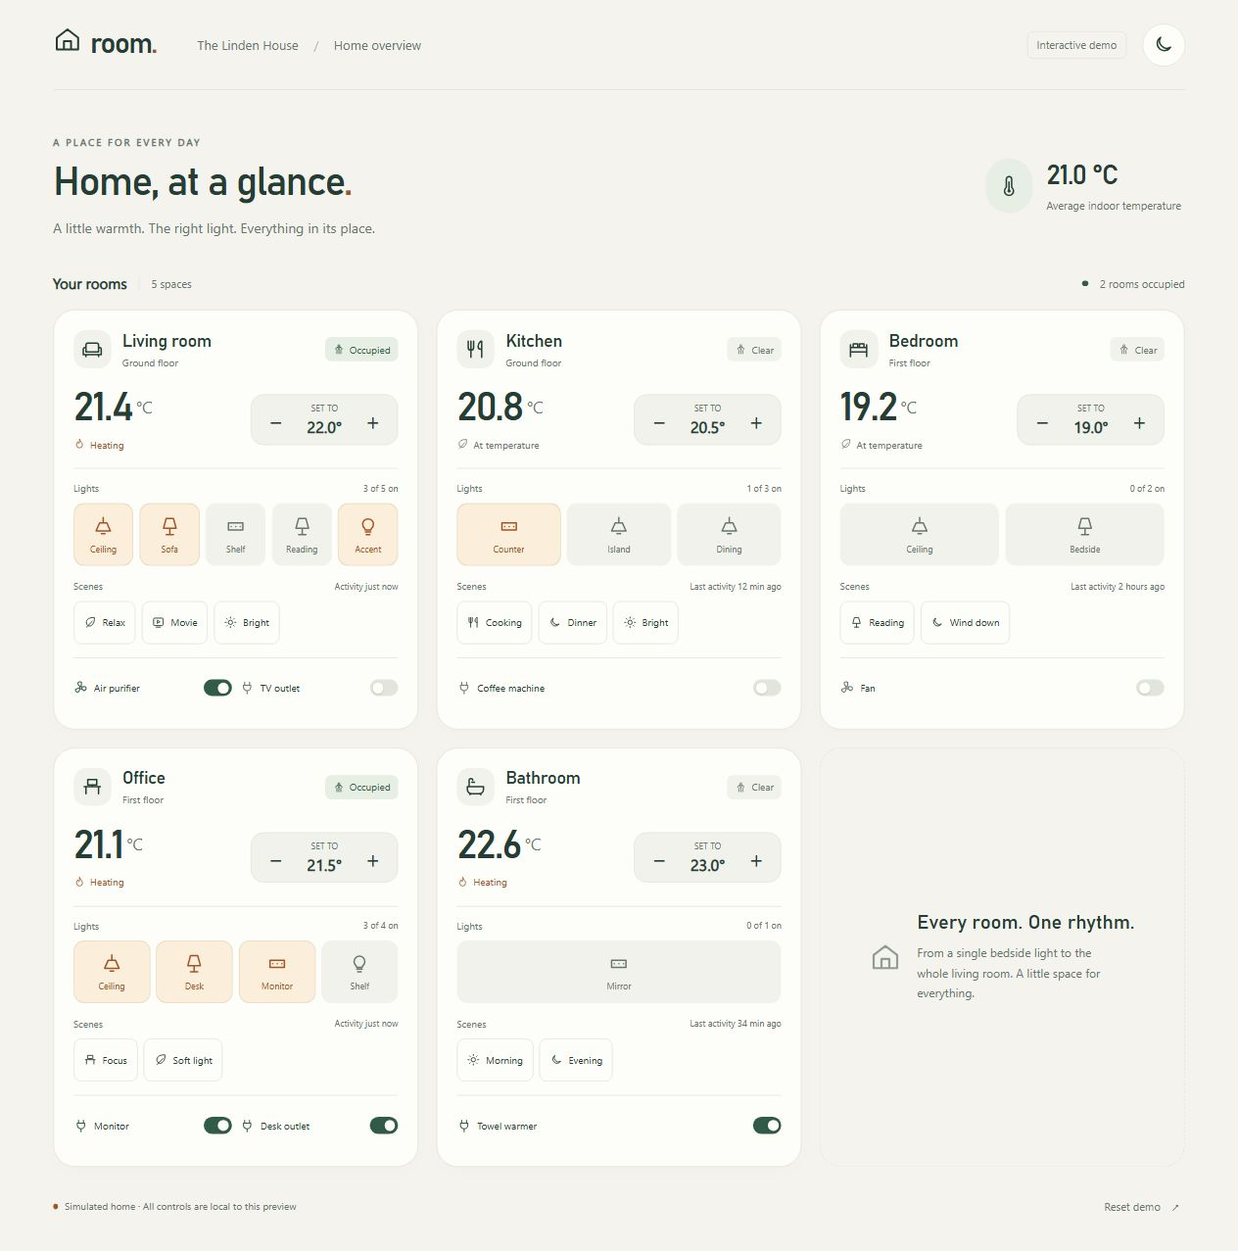
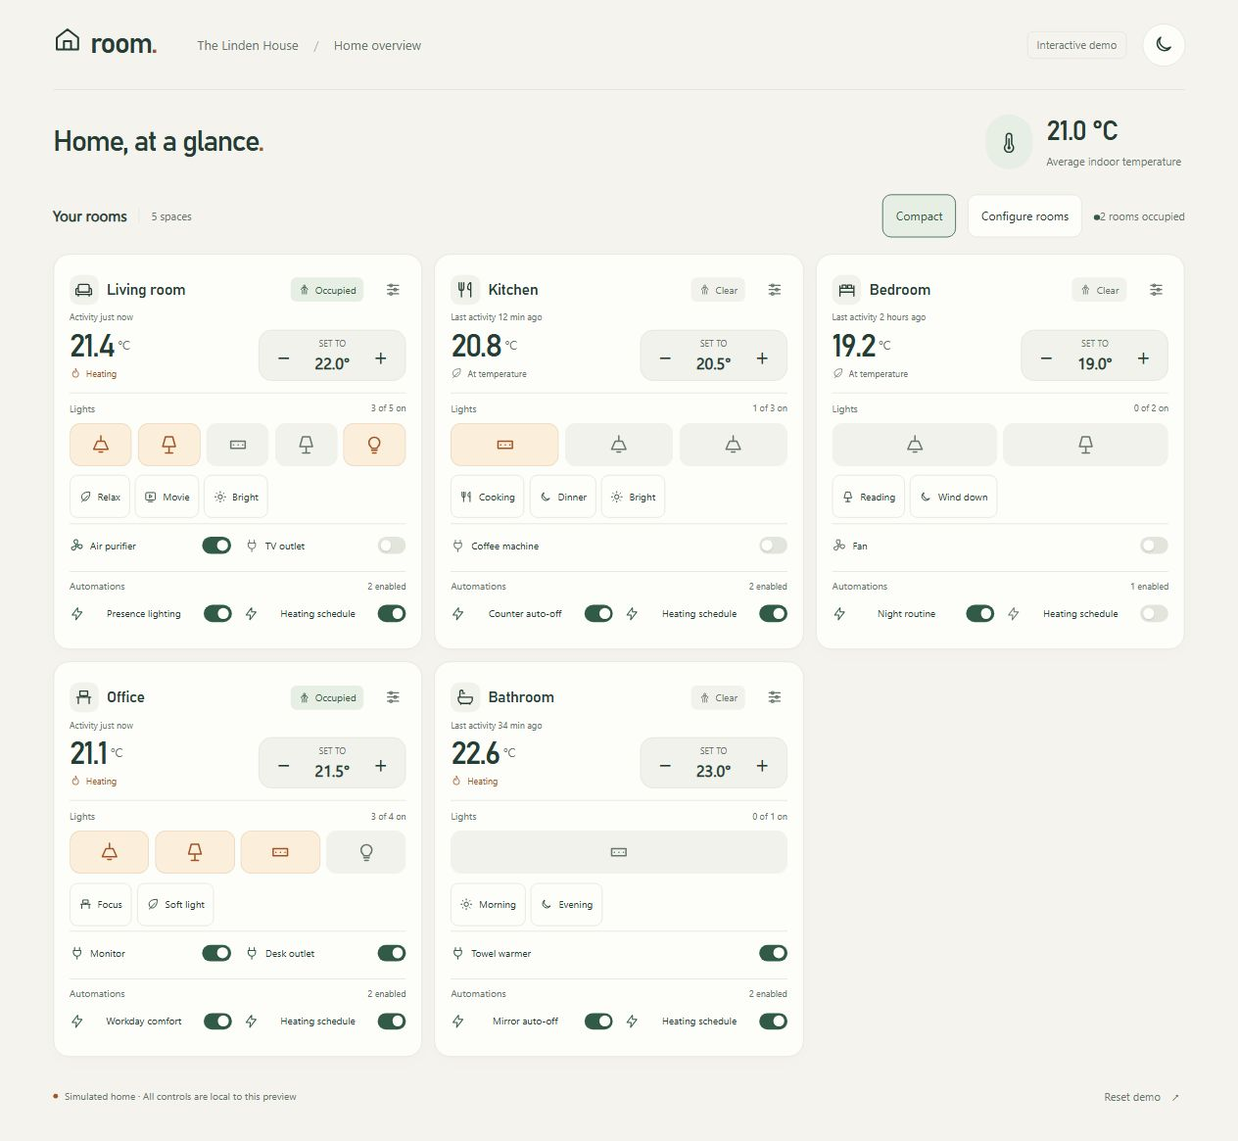
Add compact layout, automation toggles and room visibility settings

diff --git a/demo/prototype.js b/demo/prototype.js
@@ -1,4 +1,6 @@
 const paths = {
+  automation: '<path d="m13 2-9 12h7l-1 8 10-13h-7z"/>',
+  settings: '<path d="M4 6h16M4 12h16M4 18h16"/><circle cx="9" cy="6" r="2"/><circle cx="15" cy="12" r="2"/><circle cx="9" cy="18" r="2"/>',
   home: '<path d="m3 10 9-7 9 7v10H3zM9 20v-7h6v7"/>',
   sofa: '<path d="M5 12V7a2 2 0 0 1 2-2h10a2 2 0 0 1 2 2v5M5 10H4a2 2 0 0 0-2 2v6h20v-6a2 2 0 0 0-2-2h-1v5H5zM5 18v2m14-2v2"/>',
   bed: '<path d="M3 18V7m18 11V7M3 15h18M3 10h18v8M6 10V6h5v4m2 0V6h5v4M3 18v2m18-2v2"/>',
@@ -29,7 +31,37 @@ const initial = [
   { name: 'Office', icon: 'desk', floor: 'First floor', current: 21.1, target: 21.5, presence: true, activity: 'Activity just now', lights: [light('Ceiling', true, 'pendant'), light('Desk', true, 'lamp'), light('Monitor', true, 'strip'), light('Shelf', false)], scenes: [['Focus', 'desk'], ['Soft light', 'leaf']], devices: [device('Monitor', true), device('Desk outlet', true)] },
   { name: 'Bathroom', icon: 'bath', floor: 'First floor', current: 22.6, target: 23, presence: false, activity: 'Last activity 34 min ago', lights: [light('Mirror', false, 'strip')], scenes: [['Morning', 'sun'], ['Evening', 'moon']], devices: [device('Towel warmer', true)] },
 ];
+initial.forEach((room, index) => {
+  room.automations = [
+    device(['Presence lighting', 'Counter auto-off', 'Night routine', 'Workday comfort', 'Mirror auto-off'][index], true, 'automation'),
+    device('Heating schedule', index !== 2, 'automation'),
+  ];
+});
 let rooms = structuredClone(initial);
+const sectionNames = { thermostat: 'Thermostat', presence: 'Presence & last activity', lights: 'Lights', scenes: 'Scenes', devices: 'Devices & switches', automations: 'Automations' };
+const storageKey = 'ha-room-prototype-settings-v1';
+const defaults = () => ({ compact: false, rooms: initial.map(() => ({ sections: Object.fromEntries(Object.keys(sectionNames).map(key => [key, true])), hidden: { lights: [], scenes: [], devices: [], automations: [] } })) });
+let preferences = defaults();
+try {
+  const saved = JSON.parse(localStorage.getItem(storageKey));
+  if (saved) {
+    preferences.compact = saved.compact === true;
+    preferences.rooms.forEach((room, index) => {
+      for (const section of Object.keys(sectionNames)) {
+        if (typeof saved.rooms?.[index]?.sections?.[section] === 'boolean') room.sections[section] = saved.rooms[index].sections[section];
+      }
+      for (const section of Object.keys(room.hidden)) {
+        const list = saved.rooms?.[index]?.hidden?.[section];
+        if (Array.isArray(list)) room.hidden[section] = list.filter(value => Number.isInteger(value) && value >= 0 && value < initial[index][section].length);
+      }
+    });
+  }
+} catch { /* Storage may be unavailable or contain an older, incompatible draft. */ }
+function savePreferences() {
+  try { localStorage.setItem(storageKey, JSON.stringify(preferences)); document.querySelector('#save-status').textContent = 'Saved in this browser'; }
+  catch { document.querySelector('#save-status').textContent = 'Applied for this session · Browser storage unavailable'; }
+}
+const visibleItems = (room, index, section) => room[section].map((item, itemIndex) => ({ item, itemIndex })).filter(({ itemIndex }) => !preferences.rooms[index].hidden[section].includes(itemIndex));
 let feedbackTimeout;
 const root = document.querySelector('#rooms');
 const format = number => number.toFixed(1);
@@ -41,14 +73,25 @@ function notify(message) {
   feedbackTimeout = setTimeout(() => feedback.classList.remove('visible'), 2600);
 }
 function render() {
+  document.body.classList.toggle('compact', preferences.compact);
+  document.querySelector('#compact').setAttribute('aria-pressed', String(preferences.compact));
   root.innerHTML = rooms.map((room, index) => {
     const heating = room.target > room.current;
+    const enabled = preferences.rooms[index].sections;
+    const lights = visibleItems(room, index, 'lights');
+    const scenes = visibleItems(room, index, 'scenes');
+    const devices = visibleItems(room, index, 'devices');
+    const automations = visibleItems(room, index, 'automations');
+    const hasVisibleContent = enabled.presence || enabled.thermostat || (enabled.lights && lights.length) || (enabled.scenes && scenes.length) || (enabled.devices && devices.length) || (enabled.automations && automations.length);
     return `<article class="room-card" data-room="${index}" aria-label="${room.name}">
-      <header class="card-heading"><span class="room-symbol">${icon(room.icon)}</span><div class="room-title"><h3>${room.name}</h3><p>${room.floor}</p></div><span class="presence ${room.presence ? 'occupied' : ''}">${icon('person')}${room.presence ? 'Occupied' : 'Clear'}</span></header>
-      <div class="thermostat"><div><div class="temperature" aria-label="Current temperature ${format(room.current)} degrees Celsius">${format(room.current)}<small>°C</small></div><div class="heat-status ${heating ? 'heating' : ''}">${icon(heating ? 'flame' : 'leaf')}${heating ? 'Heating' : 'At temperature'}</div></div><div class="setpoint"><button data-action="temperature" data-delta="-0.5" aria-label="Decrease ${room.name} target by 0.5 degrees Celsius">−</button><div class="setpoint-center"><span>SET TO</span><strong aria-live="polite">${format(room.target)}°</strong></div><button data-action="temperature" data-delta="0.5" aria-label="Increase ${room.name} target by 0.5 degrees Celsius">+</button></div></div>
-      <div class="control-section"><div class="control-label"><span>Lights</span><span>${room.lights.filter(item => item.on).length} of ${room.lights.length} on</span></div><div class="lights" style="--lights:${room.lights.length}">${room.lights.map((item, lightIndex) => `<button class="light ${item.on ? 'on' : ''}" data-action="light" data-index="${lightIndex}" aria-label="${item.name} light in ${room.name}" aria-pressed="${item.on}">${icon(item.type)}<span>${item.name}</span></button>`).join('')}</div></div>
-      <div class="control-label"><span>Scenes</span><span>${room.activity}</span></div><div class="scenes">${room.scenes.map(([name, symbol], sceneIndex) => `<button class="scene" data-action="scene" data-index="${sceneIndex}" aria-pressed="${room.scene === sceneIndex}">${icon(symbol)}${name}</button>`).join('')}</div>
-      <div class="devices">${room.devices.map((item, deviceIndex) => `<button class="device" data-action="device" data-index="${deviceIndex}" aria-pressed="${item.on}" aria-label="${item.name} in ${room.name}">${icon(item.type)}<span>${item.name}</span><span class="switch" aria-hidden="true"></span></button>`).join('')}</div>
+      <header class="card-heading"><span class="room-symbol">${icon(room.icon)}</span><div class="room-title"><h3>${room.name}</h3><p>${room.floor}</p></div>${enabled.presence ? `<span class="presence ${room.presence ? 'occupied' : ''}">${icon('person')}${room.presence ? 'Occupied' : 'Clear'}</span>` : ''}<button class="card-settings" data-action="settings" aria-label="Configure ${room.name}">${icon('settings')}</button></header>
+      ${enabled.presence ? `<div class="last-activity">${room.activity}</div>` : ''}
+      ${enabled.thermostat ? `<div class="thermostat"><div><div class="temperature" aria-label="Current temperature ${format(room.current)} degrees Celsius">${format(room.current)}<small>°C</small></div><div class="heat-status ${heating ? 'heating' : ''}">${icon(heating ? 'flame' : 'leaf')}${heating ? 'Heating' : 'At temperature'}</div></div><div class="setpoint"><button data-action="temperature" data-delta="-0.5" aria-label="Decrease ${room.name} target by 0.5 degrees Celsius">−</button><div class="setpoint-center"><span>SET TO</span><strong aria-live="polite">${format(room.target)}°</strong></div><button data-action="temperature" data-delta="0.5" aria-label="Increase ${room.name} target by 0.5 degrees Celsius">+</button></div></div>` : ''}
+      ${enabled.lights && lights.length ? `<section class="control-section" aria-label="Lights"><div class="control-label"><span>Lights</span><span>${lights.filter(({ item }) => item.on).length} of ${lights.length} on</span></div><div class="lights" style="--lights:${lights.length}">${lights.map(({ item, itemIndex }) => `<button class="light ${item.on ? 'on' : ''}" data-action="light" data-index="${itemIndex}" aria-label="${item.name} light in ${room.name}" aria-pressed="${item.on}">${icon(item.type)}<span>${item.name}</span></button>`).join('')}</div></section>` : ''}
+      ${enabled.scenes && scenes.length ? `<section class="scene-section" aria-label="Scenes"><div class="control-label"><span>Scenes</span></div><div class="scenes">${scenes.map(({ item: [name, symbol], itemIndex }) => `<button class="scene" data-action="scene" data-index="${itemIndex}" aria-pressed="${room.scene === itemIndex}">${icon(symbol)}${name}</button>`).join('')}</div></section>` : ''}
+      ${enabled.devices && devices.length ? `<section class="devices-section" aria-label="Devices and switches"><div class="control-label"><span>Devices</span></div><div class="devices">${devices.map(({ item, itemIndex }) => `<button class="device" data-action="device" data-index="${itemIndex}" aria-pressed="${item.on}" aria-label="${item.name} in ${room.name}">${icon(item.type)}<span>${item.name}</span><span class="switch" aria-hidden="true"></span></button>`).join('')}</div></section>` : ''}
+      ${enabled.automations && automations.length ? `<section class="automations-section" aria-label="Automations"><div class="control-label"><span>Automations</span><span>${automations.filter(({ item }) => item.on).length} enabled</span></div><div class="automations">${automations.map(({ item, itemIndex }) => `<button class="device" data-action="automation" data-index="${itemIndex}" aria-pressed="${item.on}" aria-label="${item.name} automation in ${room.name}">${icon('automation')}<span>${item.name}</span><span class="switch" aria-hidden="true"></span></button>`).join('')}</div></section>` : ''}
+      ${!hasVisibleContent ? '<p class="empty-card">No controls selected. Choose what appears in room settings.</p>' : ''}
     </article>`;
   }).join('') + `<aside class="room-note">${icon('home')}<div><strong>Every room. One rhythm.</strong><p>From a single bedside light to the whole living room. A little space for everything.</p></div></aside>`;
   document.querySelector('#average').textContent = `${format(rooms.reduce((sum, room) => sum + room.current, 0) / rooms.length)} °C`;
@@ -61,6 +104,7 @@ root.addEventListener('click', event => {
   const room = rooms[roomIndex];
   const index = Number(button.dataset.index);
   const action = button.dataset.action;
+  if (action === 'settings') { openSettings(roomIndex); return; }
   if (action === 'temperature') {
     room.target = Math.min(30, Math.max(5, room.target + Number(button.dataset.delta)));
     notify(`${room.name} · Set to ${format(room.target)} °C`);
@@ -69,6 +113,9 @@ root.addEventListener('click', event => {
     room.scene = undefined;
   } else if (action === 'device') {
     room.devices[index].on = !room.devices[index].on;
+  } else if (action === 'automation') {
+    room.automations[index].on = !room.automations[index].on;
+    notify(`${room.name} · ${room.automations[index].name} ${room.automations[index].on ? 'enabled' : 'disabled'}`);
   } else if (action === 'scene') {
     room.scene = index;
     const sceneName = room.scenes[index][0];
@@ -92,5 +139,43 @@ themeButton.addEventListener('click', () => {
   themeButton.innerHTML = icon(dark ? 'sun' : 'moon');
   themeButton.setAttribute('aria-label', `Switch to ${dark ? 'light' : 'dark'} theme`);
 });
-document.querySelector('#reset').addEventListener('click', () => { rooms = structuredClone(initial); render(); notify('Demo reset'); });
+const settings = document.querySelector('#settings');
+const roomSelect = document.querySelector('#settings-room');
+roomSelect.innerHTML = rooms.map((room, index) => `<option value="${index}">${room.name}</option>`).join('');
+function renderSettings() {
+  const index = Number(roomSelect.value);
+  const config = preferences.rooms[index];
+  document.querySelector('#settings-content').innerHTML = Object.entries(sectionNames).map(([key, label]) => {
+    const items = rooms[index][key];
+    return `<section class="setting-section"><label class="setting-toggle"><span>${label}</span><input type="checkbox" data-section="${key}" ${config.sections[key] ? 'checked' : ''} aria-label="Show ${label}"><span class="setting-switch" aria-hidden="true"></span></label>${Array.isArray(items) ? `<fieldset ${config.sections[key] ? '' : 'disabled'}><legend class="sr-only">Visible ${label}</legend>${items.map((item, itemIndex) => `<label class="item-option"><input type="checkbox" data-section="${key}" data-item="${itemIndex}" ${config.hidden[key].includes(itemIndex) ? '' : 'checked'}><span>${Array.isArray(item) ? item[0] : item.name}</span></label>`).join('')}</fieldset>` : ''}</section>`;
+  }).join('');
+}
+function openSettings(index = 0) {
+  roomSelect.value = String(index);
+  renderSettings();
+  settings.showModal();
+}
+roomSelect.addEventListener('change', renderSettings);
+document.querySelector('#settings-content').addEventListener('change', event => {
+  const input = event.target.closest('input[data-section]');
+  if (!input) return;
+  const config = preferences.rooms[Number(roomSelect.value)];
+  const section = input.dataset.section;
+  if (input.dataset.item === undefined) {
+    config.sections[section] = input.checked;
+    const fieldset = input.closest('section').querySelector('fieldset');
+    if (fieldset) fieldset.disabled = !input.checked;
+  } else {
+    const index = Number(input.dataset.item);
+    config.hidden[section] = config.hidden[section].filter(item => item !== index);
+    if (!input.checked) config.hidden[section].push(index);
+  }
+  savePreferences();
+  render();
+});
+document.querySelector('#configure').addEventListener('click', () => openSettings());
+document.querySelector('#close-settings').addEventListener('click', () => settings.close());
+document.querySelector('#done-settings').addEventListener('click', () => settings.close());
+document.querySelector('#compact').addEventListener('click', () => { preferences.compact = !preferences.compact; savePreferences(); render(); });
+document.querySelector('#reset').addEventListener('click', () => { rooms = structuredClone(initial); preferences = defaults(); savePreferences(); render(); notify('Demo and room settings reset'); });
 render();

diff --git a/demo/prototype.css b/demo/prototype.css
@@ -1,4 +1,8 @@
 @font-face{font-family:Room Sans;src:local('Aptos'),local('Segoe UI');font-display:swap}
+/* The compact view reduces spacing and decoration while retaining 44px controls. */
+.view-controls{display:flex;align-items:center;gap:10px}.toolbar-button{border:1px solid var(--line);background:var(--surface);border-radius:9px;padding:0 13px;min-height:44px;font-size:12px;white-space:nowrap}.toolbar-button[aria-pressed=true]{background:var(--green-soft);border-color:var(--green);color:var(--green)}.card-settings{width:44px;height:44px;flex-shrink:0;display:grid;place-items:center;border:0;background:transparent;border-radius:10px;color:var(--muted);margin-right:-9px}.card-settings:hover{background:var(--soft)}.card-settings svg{width:17px;height:17px}.last-activity{font-size:10px;color:var(--muted);margin-top:9px}.automations-section{border-top:1px solid var(--line);margin-top:10px;padding-top:13px}.automations{display:grid;gap:0}.devices-section>.control-label{margin-bottom:0}.devices{border-top:0}.empty-card{font-size:12px;color:var(--muted);line-height:1.6;margin-bottom:0}.compact .intro{padding:25px 0}.compact .eyebrow,.compact .subtitle,.compact .room-note{display:none}.compact h1{font-size:30px}.compact .room-card{padding:14px 16px;border-radius:16px}.compact .rooms{gap:12px;align-items:start}.compact .room-title p{display:none}.compact .room-title h3{font-size:16px;margin:0}.compact .room-symbol{width:30px;height:30px;border-radius:9px}.compact .room-symbol svg{width:19px;height:19px}.compact .card-heading{gap:8px}.compact .last-activity{margin:0 0 5px;font-size:9px}.compact .thermostat{margin:7px 0 12px}.compact .temperature{font-size:32px}.compact .heat-status{margin-top:5px;font-size:9px}.compact .temperature small{font-size:13px;margin-top:4px}.compact .control-section{padding-top:9px}.compact .light{min-height:44px;padding:5px}.compact .light span{display:none}.compact .lights{margin-bottom:9px}.compact .scene-section>.control-label,.compact .devices-section>.control-label{display:none}.compact .scenes{margin-bottom:5px;gap:5px}.compact .scene{padding:0 9px}.compact .devices{padding:0;gap:14px}.compact .automations-section{margin-top:4px;padding-top:8px}.compact .automations-section>.control-label{margin-bottom:0}.compact .automations{display:flex;gap:12px}.compact .automations .device{white-space:normal;line-height:1.3;min-width:0}.compact .automations .device>span:not(.switch){flex:1}.compact .switch{flex-shrink:0}.compact .device{font-size:10px}
+dialog{width:min(480px,calc(100% - 24px));max-height:calc(100dvh - 32px);margin:auto;padding:25px;background:var(--surface);color:var(--ink);border:1px solid var(--line);border-radius:22px;box-shadow:0 20px 80px #0003}dialog::backdrop{background:#13231bd0;backdrop-filter:blur(4px)}.settings-heading{display:flex;justify-content:space-between;align-items:center}.settings-heading .eyebrow{display:block;margin-bottom:8px}.settings-heading h2{font:500 25px 'Room Display',sans-serif;letter-spacing:-.6px}.settings-heading .icon-button{font-size:25px}.settings-description{font-size:12px;line-height:1.6;color:var(--muted);margin:16px 0 18px}.room-select-label{display:block;font-size:11px;color:var(--muted);margin-bottom:7px}#settings-room{width:100%;min-height:44px;border:1px solid var(--line);border-radius:9px;background:var(--soft);color:var(--ink);padding:0 12px;font:inherit;margin-bottom:18px}.setting-section{border-top:1px solid var(--line);padding:6px 0 10px}.setting-toggle{display:flex;align-items:center;gap:10px;min-height:44px;cursor:pointer;font-size:13px;position:relative}.setting-toggle>span:first-child{flex:1}.setting-toggle>input{position:absolute;right:0;width:44px;height:32px;opacity:0;cursor:pointer}.setting-switch{display:flex;align-items:center;width:34px;height:20px;background:var(--line);border-radius:12px;padding:3px;pointer-events:none}.setting-switch:after{content:'';width:14px;height:14px;background:var(--surface);border-radius:50%}.setting-toggle>input:checked+.setting-switch{background:var(--green);justify-content:flex-end}.setting-toggle>input:focus-visible+.setting-switch{outline:3px solid var(--focus);outline-offset:3px}.setting-section fieldset{display:flex;flex-wrap:wrap;gap:0 14px;border:0;padding:0;margin:0}.setting-section fieldset:disabled{opacity:.4}.item-option{display:flex;align-items:center;min-height:44px;gap:7px;font-size:11px;cursor:pointer}.item-option input{width:17px;height:17px;accent-color:var(--green);margin:0}.settings-footer{position:sticky;bottom:-25px;display:flex;justify-content:space-between;align-items:center;gap:12px;border-top:1px solid var(--line);padding:15px 0 0;background:var(--surface)}#save-status{font-size:10px;color:var(--muted);line-height:1.5}.sr-only{position:absolute;width:1px;height:1px;overflow:hidden;clip-path:inset(50%)}
+@media(max-width:650px){.section-heading{flex-wrap:wrap;gap:12px}.section-heading>.view-controls{gap:8px;width:100%;flex-wrap:wrap}.view-controls .overview-status{margin-left:auto}.toolbar-button{font-size:11px;padding:0 10px}.compact .intro{padding:22px 0}.compact .card-heading{gap:7px}.compact .room-card{padding:12px 14px}.settings-heading .eyebrow{display:block}}
 @font-face{font-family:Room Display;src:local('Bahnschrift'),local('Trebuchet MS');font-display:swap}
 :root{color-scheme:light;--page:#f4f3ee;--surface:#fdfdf9;--ink:#263d36;--muted:#69766e;--line:#e2e5dc;--soft:#f1f2eb;--green:#315b46;--green-soft:#e7eee3;--orange:#a35426;--orange-soft:#fbefdb;--shadow:0 4px 20px #263d3604;--focus:#35694e;--radius:22px}
 :root[data-theme=dark]{color-scheme:dark;--page:#171e1a;--surface:#222c25;--ink:#e7eddf;--muted:#a3b1a4;--line:#354138;--soft:#2b352d;--green:#b2d4ad;--green-soft:#344837;--orange:#efb577;--orange-soft:#493b29;--shadow:none;--focus:#b2d4ad}

diff --git a/demo/index.html b/demo/index.html
@@ -18,13 +18,20 @@
         <div class="home-summary"><span class="summary-icon" id="summary-icon"></span><div><strong id="average"></strong><span>Average indoor temperature</span></div></div>
       </section>
       <section aria-labelledby="rooms-title">
-        <div class="section-heading"><div><h2 id="rooms-title">Your rooms</h2><span class="room-count">5 spaces</span></div><div class="overview-status"><span class="status-dot"></span><span id="active-count"></span></div></div>
+        <div class="section-heading"><div><h2 id="rooms-title">Your rooms</h2><span class="room-count">5 spaces</span></div><div class="view-controls"><button id="compact" class="toolbar-button" aria-pressed="false">Compact</button><button id="configure" class="toolbar-button">Configure rooms</button><div class="overview-status"><span class="status-dot"></span><span id="active-count"></span></div></div></div>
         <div id="rooms" class="rooms"></div>
       </section>
       <footer><span><span class="demo-dot"></span> Simulated home · All controls are local to this preview</span><button id="reset">Reset demo <span aria-hidden="true">↗</span></button></footer>
     </main>
   </div>
   <div id="feedback" class="toast" role="status" aria-live="polite"></div>
+  <dialog id="settings" aria-labelledby="settings-title">
+    <div class="settings-heading"><div><p class="eyebrow">MAKE IT YOURS</p><h2 id="settings-title">Room settings</h2></div><button id="close-settings" class="icon-button" aria-label="Close settings">×</button></div>
+    <p class="settings-description">Choose what appears on each card. Hidden controls keep their state.</p>
+    <label class="room-select-label" for="settings-room">Room</label><select id="settings-room"></select>
+    <div id="settings-content"></div>
+    <div class="settings-footer"><span id="save-status" role="status">Saved in this browser</span><button id="done-settings" class="toolbar-button">Done</button></div>
+  </dialog>
   <script type="module" src="/demo/prototype.js"></script>
 </body>
 </html>

diff --git a/AGENTS.md b/AGENTS.md
@@ -1,6 +1,7 @@
 # HA Room Card working guide
 
 - Build a compact room dashboard reusable across a home: thermostat with current/target temperature and ± controls (default 0.5 °C), 1–5 icon light toggles, scenes, presence with last activity, and device/switch toggles. The current requested deliverable is the optical, interactive prototype in demo/, using clearly labeled simulated data. src/ remains the baseline HA starter; demo behavior does not establish live device support. Do not hard-code a user's real entities.
+- Preserve the optional compact layout, per-room section/item visibility settings and automation enable/disable controls. Browser storage persists display preferences only; device and automation states remain simulated. Hiding a control must not change its state.
 - Read docs/working-guide.md before modifying editor, device actions or releases. Keep verified new lessons there.
 - Keep the UI and documentation in English; respond in the user's language. Use Home Assistant themes, accessible names, keyboard focus, 44px targets and reduced-motion support.
 - Implement the requested device controls from actual supported features and exact service parameters. The starter only displays state and opens more-info. Do not infer device behavior from a different integration.

diff --git a/README.md b/README.md
@@ -2,6 +2,8 @@
 
 Compact room dashboard concept for Home Assistant. The interactive visual prototype in `demo/` shows five rooms with current/target temperature, 0.5 °C adjustment buttons, one to five lights, scenes, presence/last activity and device toggles. Light and dark themes and responsive layouts are included. All prototype data and actions are simulated; reloading restores the example home.
 
+Use **Compact** above the grid for a denser layout. **Configure rooms**, or the settings icon on a card, opens per-room visibility settings for the thermostat, presence/last activity, lights, scenes, devices and automations. Individual lights, scenes, devices and automations can also be included or hidden. Hiding a control preserves its simulated state; it does not switch the device off. Automation switches on the cards enable/disable example automations without running real schedules or Home Assistant actions. Visibility preferences and the compact layout are saved in this browser; **Reset demo** restores both the example home and default settings.
+
 The installable `src/` and `dist/` card remains the initial entity-display starter. The room prototype is not yet connected to Home Assistant services or the configuration editor.
 
 ## Install with HACS
